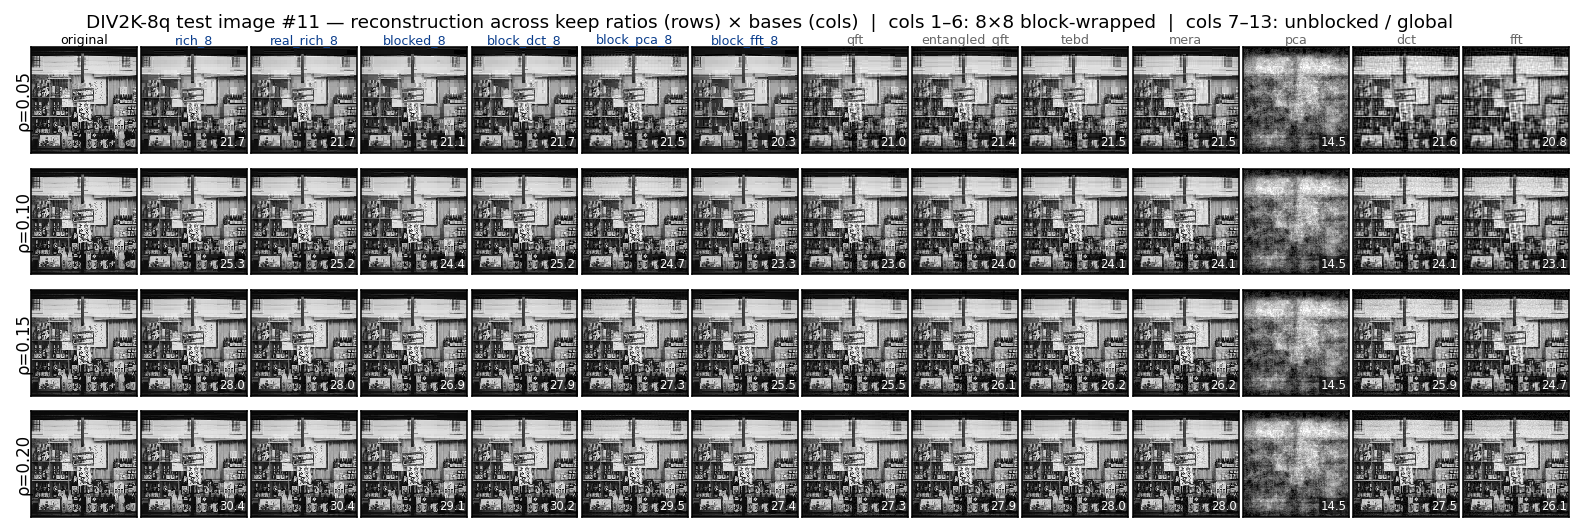
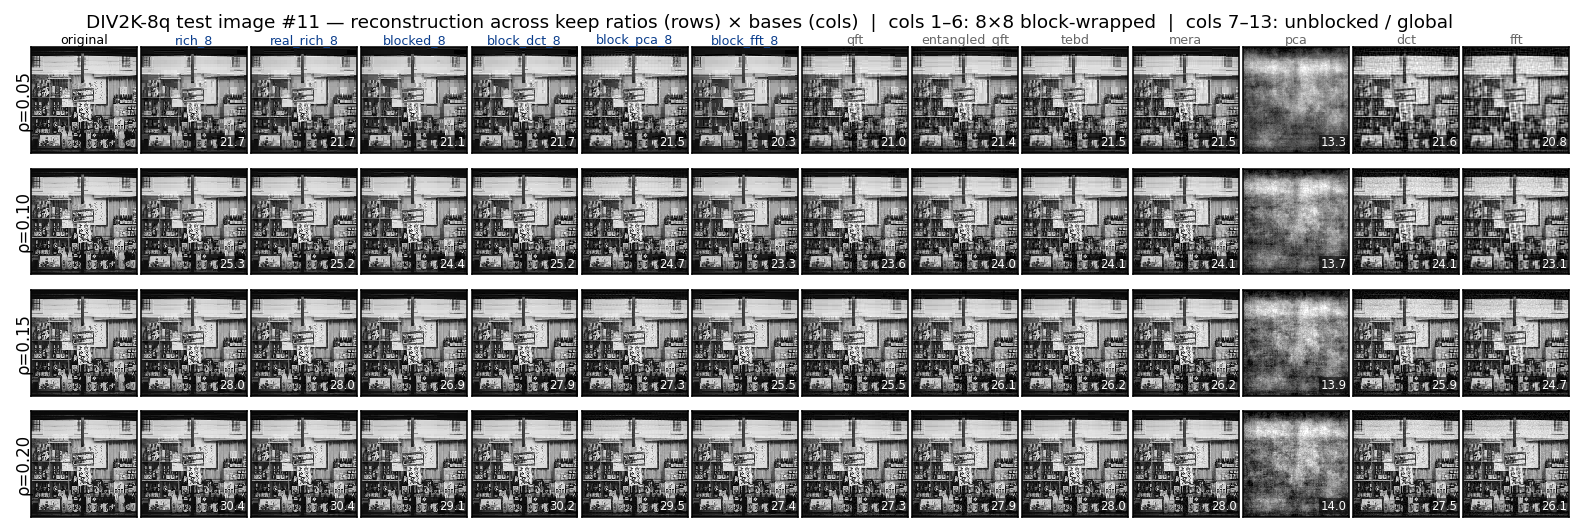
results(div2k-8q): regen under rate-fair PCA rule
Picks up the pca.py fix: global-PCA top-k now actually truncates on
the rank-deficient DIV2K fit (was a no-op at every published rho).

- Rerun metrics.json + REPORT.md + _baselines.json: pca and pca_rank
  now produce monotone curves instead of saturating at 18.15 dB.
  pca: 16.77 / 17.18 / 17.42 / 17.58 dB (was 18.15 across all rho).
  pca_rank: 16.36 / 16.81 / 17.05 / 17.22 dB (was 18.15 across all rho).
- Paper table regenerated with new numbers.
- writeup.typ + writeup.pdf: replaces the saturation narrative with
  the rank-deficiency narrative (PCA still 13 dB behind Block-DCT 8;
  the rank-499 ceiling is real but now visible as a slope rather than
  a flat line). Adds the rate-fair-budget definition to the figure
  caption for image #11.
- README.md: updated headline PCA row + reframed "saturates"
  finding to "tops out" with explanation of the rate-fair budget.
- freq_recon_grid_img{11,43}.png: re-rendered under the new rule;
  PCA-row PSNR labels now match the table. _freq.png variants
  unchanged (frequency-spectrum doesn't depend on truncation rule).

diff --git a/results/div2k_8q_pca_vs_block_dct/tables/published_8q_div2k.tex b/results/div2k_8q_pca_vs_block_dct/tables/published_8q_div2k.tex
@@ -16,8 +16,8 @@ Block-FFT 8 & 24.47 & 27.10 & 29.06 & 30.79 \\
 Block-DCT 8 & 26.11 & 29.41 & 31.86 & 34.01 \\
 Block-DCT 8 (rank) & 22.35 & 24.11 & 25.20 & 26.30 \\
 \midrule
-PCA & 18.15 & 18.15 & 18.15 & 18.15 \\
-PCA (rank) & 18.15 & 18.15 & 18.15 & 18.15 \\
+PCA & 16.77 & 17.18 & 17.42 & 17.58 \\
+PCA (rank) & 16.36 & 16.81 & 17.05 & 17.22 \\
 Block-PCA 8 & 25.93 & 29.05 & 31.42 & 33.51 \\
 Block-PCA 8 (rank) & 22.38 & 24.17 & 25.35 & 26.40 \\
 \midrule

diff --git a/results/div2k_8q_pca_vs_block_dct/README.md b/results/div2k_8q_pca_vs_block_dct/README.md
@@ -27,21 +27,23 @@ asymmetry.
 | QFT         | 24.91  | 27.30  | 29.20  | 30.91  |
 | FFT         | 24.50  | 26.54  | 28.07  | 29.39  |
 | Block-FFT 8 | 24.47  | 27.10  | 29.06  | 30.79  |
-| PCA         | 18.15  | 18.15  | 18.15  | 18.15  |
+| PCA         | 16.77  | 17.18  | 17.42  | 17.58  |
 
 Notable findings:
 - **Block-DCT 8 leads at every keep ratio.** Real Rich-8 trails by
   only 0.13–0.33 dB across the range.
 - **TEBD and MERA produce identical PSNR** at this geometry — flagged
   as a curious finding worth investigating.
-- **Global PCA saturates at 18.15 dB** because n_train=500 ≪ d=65536:
-  the PCA basis has rank ≤ 500, so any keep ratio above 500/65536 ≈
-  0.0076 keeps the full reconstruction. The rank-rule control
-  `pca_rank` confirms this — same 18.15 dB at every keep ratio,
-  since rho ≥ 0.05 already saturates the rank-499 subspace regardless
-  of which truncation rule is used. Block-PCA 8 dodges this by
-  fitting per-block (each 8×8 block has up to 64 components, fit on
-  ~3.2M extracted patches).
+- **Global PCA tops out at ~17.6 dB** at ρ=0.20 — 13 dB behind
+  Block-DCT 8 — because n_train=500 ≪ d=65536: the PCA basis has
+  rank ≤ 499 and the rank-499 projection error itself is ~18.15 dB.
+  The truncation rule keeps top-k by magnitude with budget
+  `floor(min(d, k_eff) * keep_ratio)` — the `min(d, k_eff)` clause
+  is the rate-fair fix: without it, the nominal `floor(d * ρ)`
+  budget exceeds k_eff at all reported ρ and the rule degenerates
+  into a no-op (all 499 coefs returned unchanged). Block-PCA 8
+  dodges the rank ceiling by fitting per-block (each 8×8 block has
+  up to 64 components, fit on ~3.2M extracted patches).
 - **Top-k pooling beats per-block rank rule on block transforms**
   by 3.7–7.7 dB on `block_dct_8` and `block_pca_8`. Magnitude-pooled
   top-k can spend the global budget on textured blocks; the rank

diff --git a/results/div2k_8q_pca_vs_block_dct/independent_reruns/seed_default/REPORT.md b/results/div2k_8q_pca_vs_block_dct/independent_reruns/seed_default/REPORT.md
@@ -17,5 +17,5 @@
 | dct | 25.36 | 27.61 | 29.33 | 30.85 |
 | dct_rank | 23.43 | 25.06 | 26.29 | 27.39 |
 | fft | 24.50 | 26.54 | 28.07 | 29.39 |
-| pca | 18.15 | 18.15 | 18.15 | 18.15 |
-| pca_rank | 18.15 | 18.15 | 18.15 | 18.15 |
+| pca | 16.77 | 17.18 | 17.42 | 17.58 |
+| pca_rank | 16.36 | 16.81 | 17.05 | 17.22 |